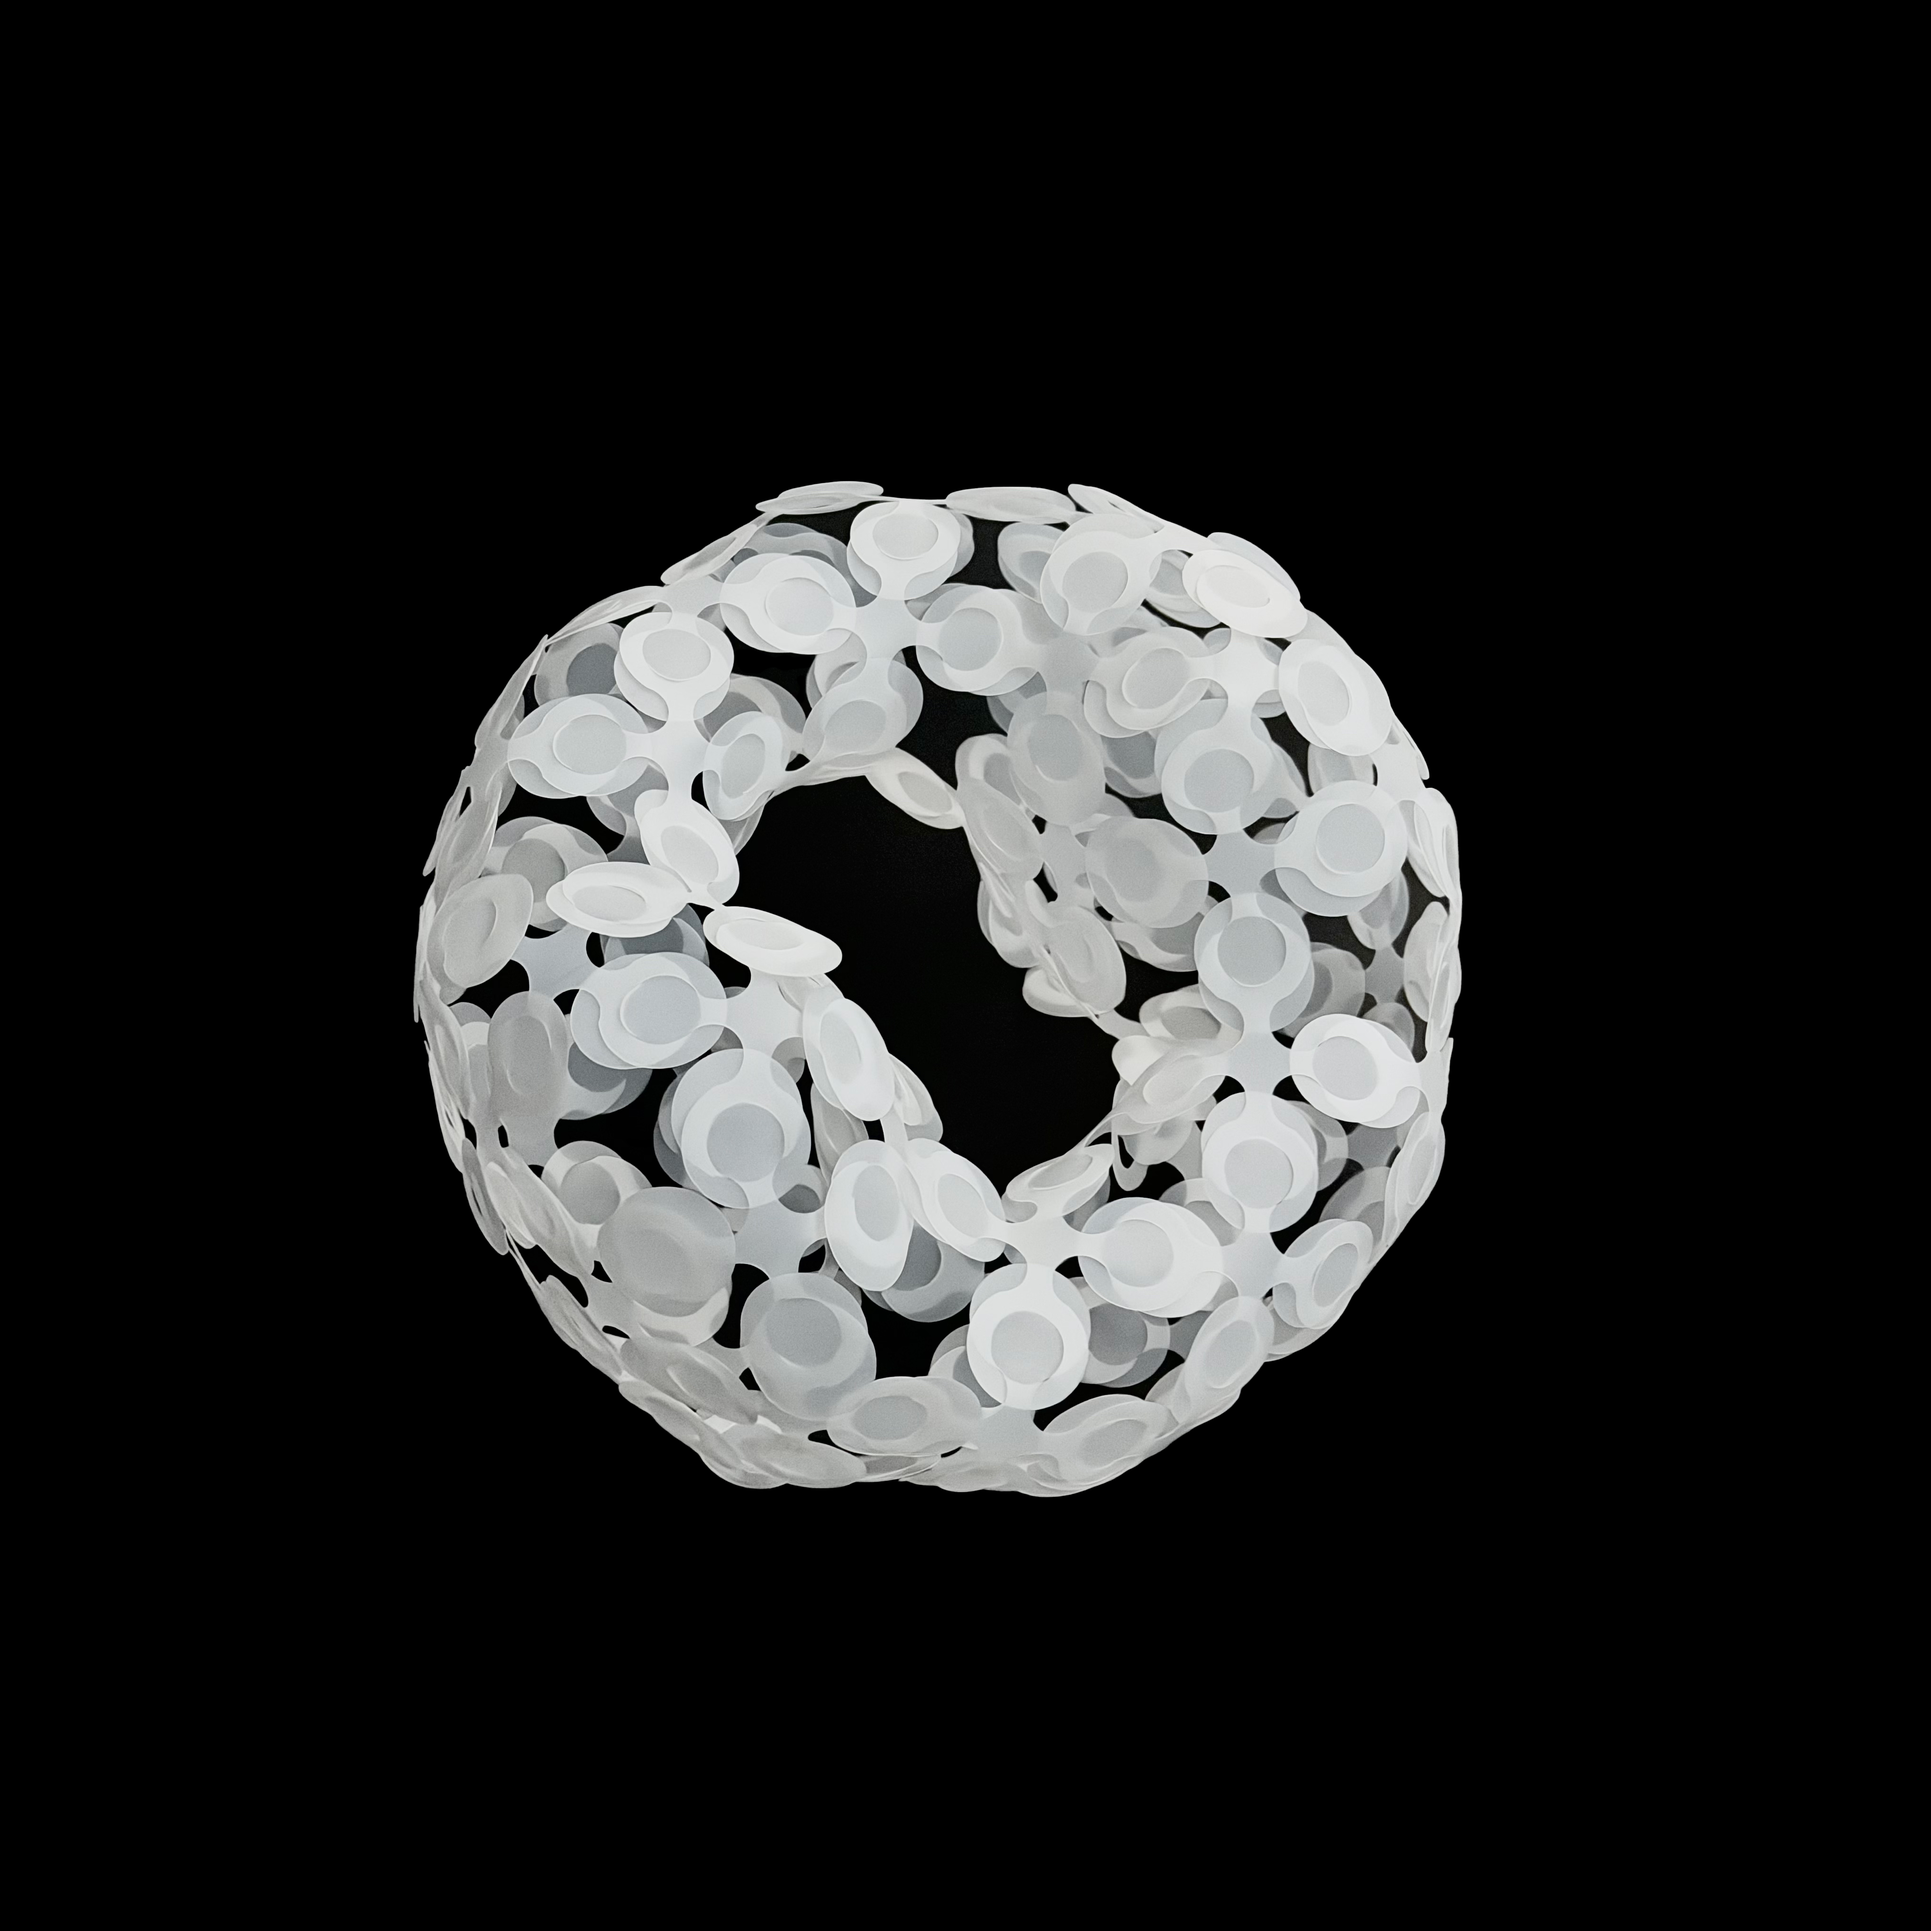
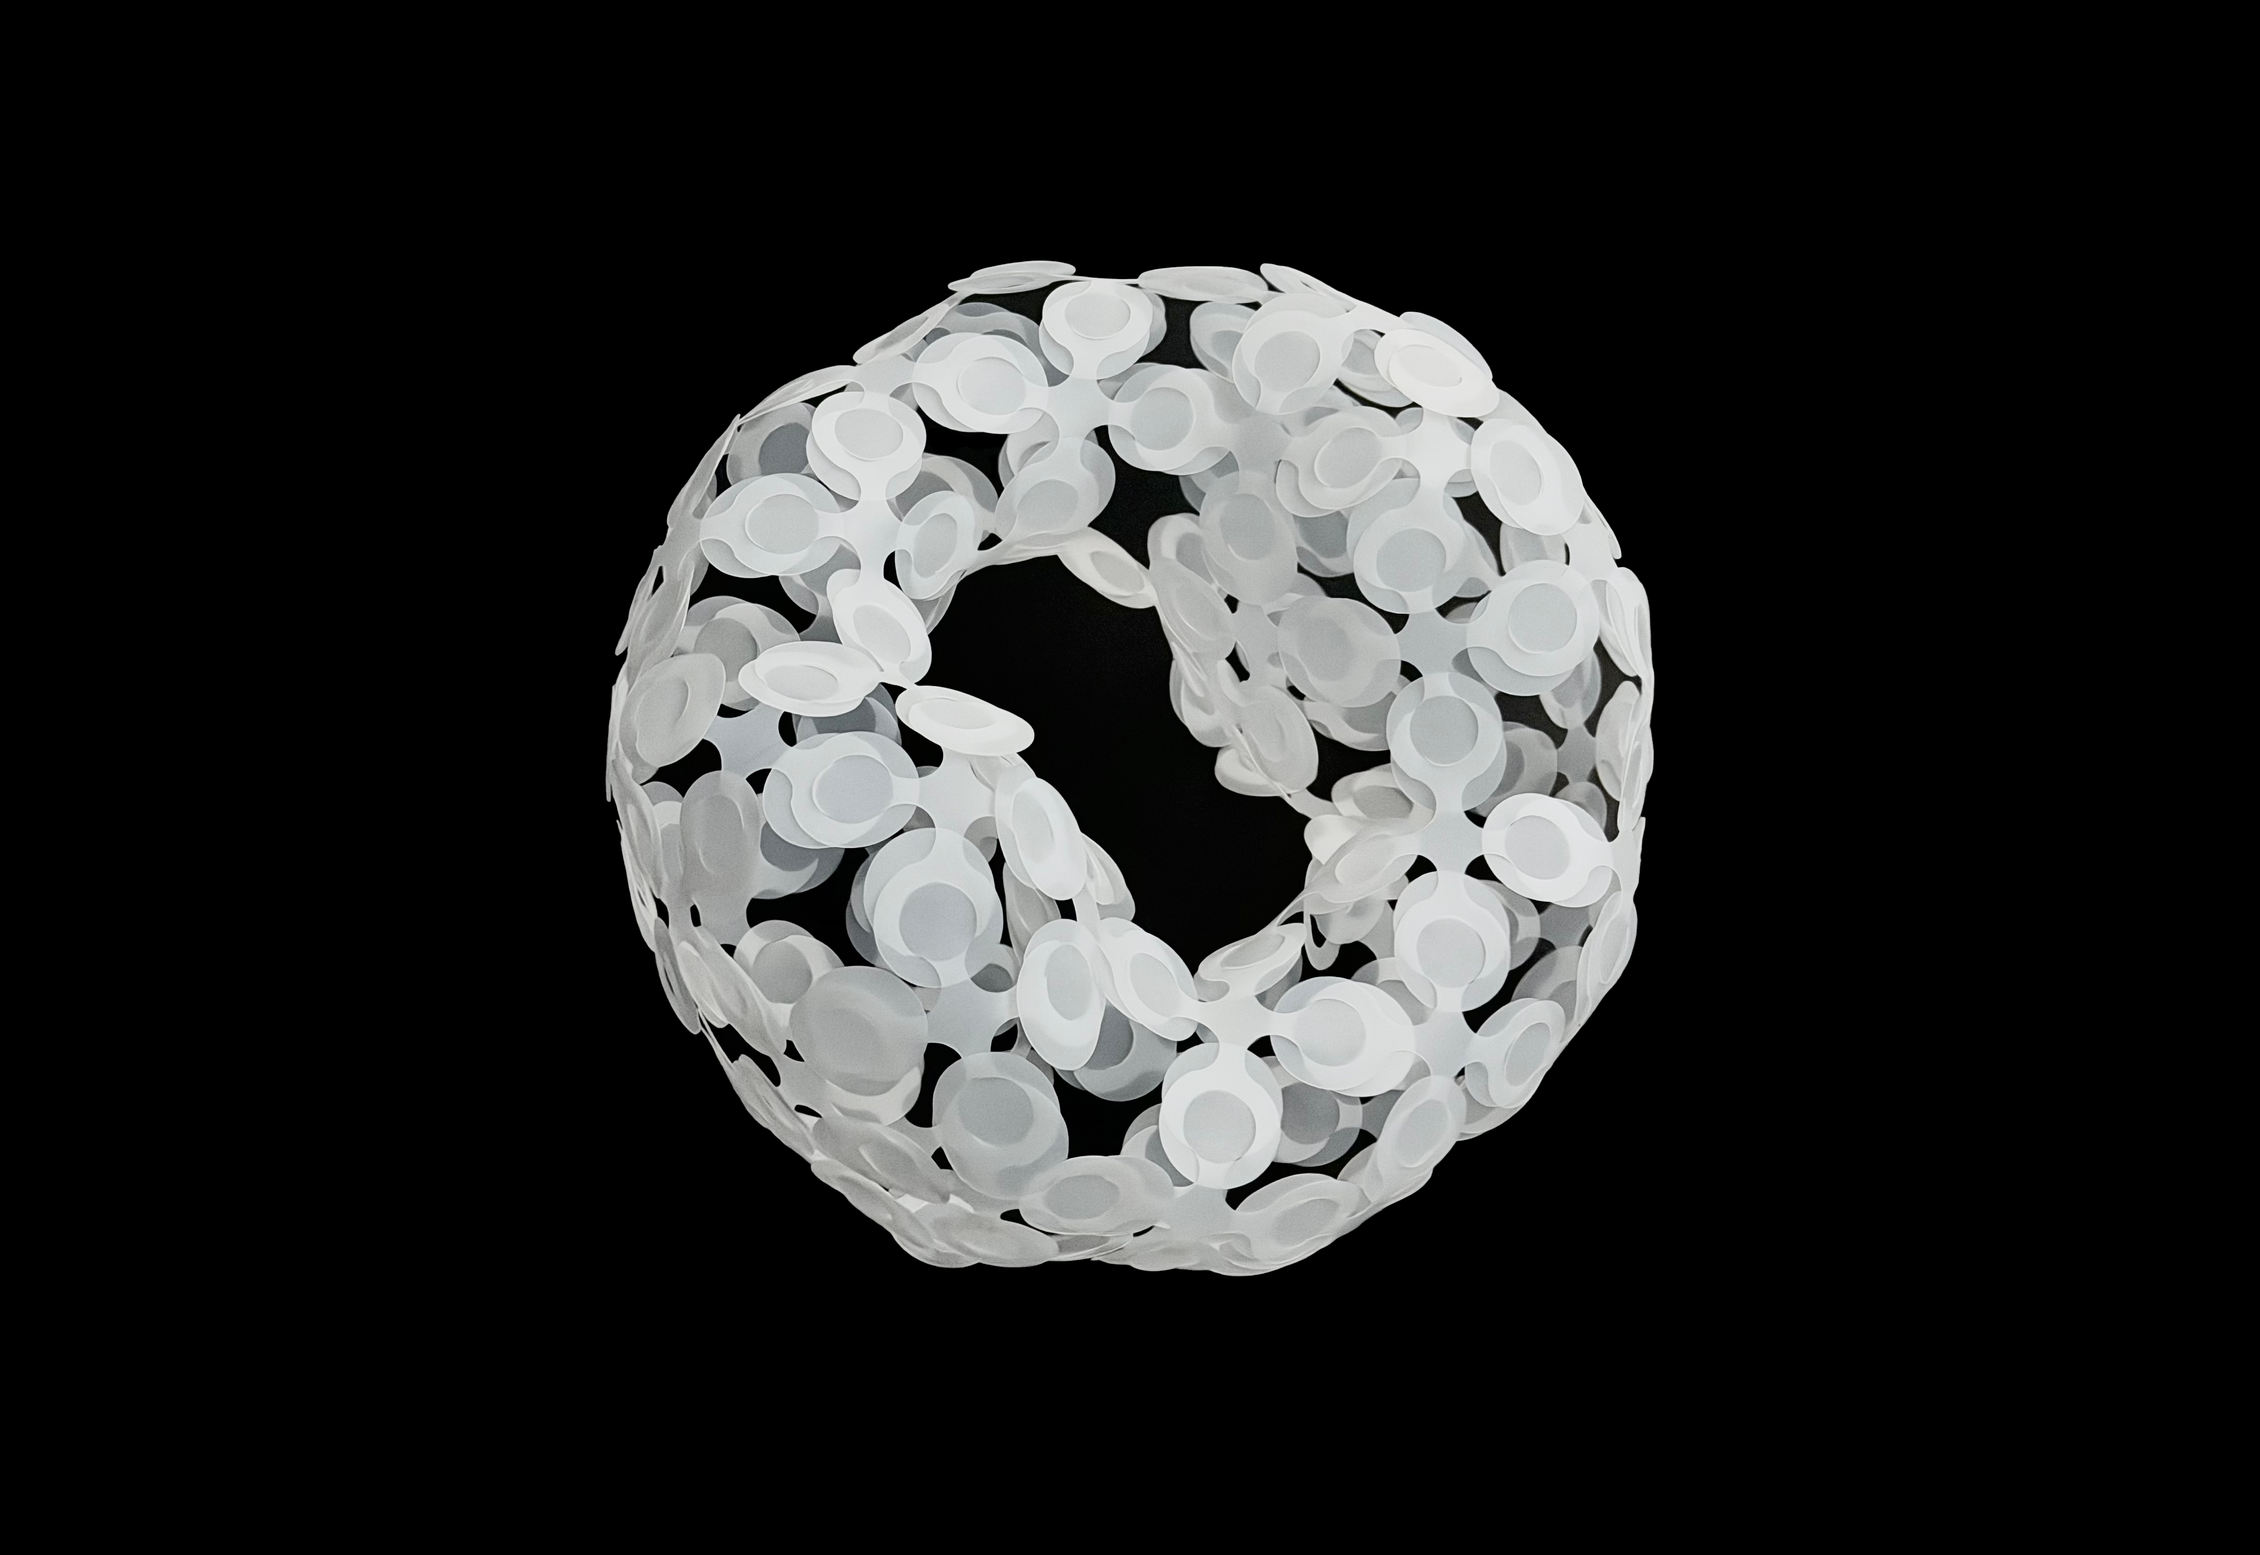
update

Changed region(s): [[0.187, 0.1554, 0.7793, 0.8391]]

diff --git a/public/script/dynamic-bg.js b/public/script/dynamic-bg.js
@@ -42,7 +42,7 @@
 
   // 1. 項目資料（圖片 + 項目資訊）
   const PROJECTS = [
-    { image: '/uploads/j/h4q-crop.jpg', title: 'Units, Joints, Forms', slug: 'joint-optimization' },
+    { image: '/uploads/l1 copy.png', title: 'LightScale', slug: 'joint-optimization' },
     { image: '/uploads/tuchsure/1.4.JPG', title: 'Techsure', slug: 'tuchsure' },
     { image: '/uploads/2.1.JPG', title: 'Ehoura', slug: 'ehoura' },
     { image: '/uploads/3.10.PNG', title: 'SerenEcho', slug: 'serenecho' },
